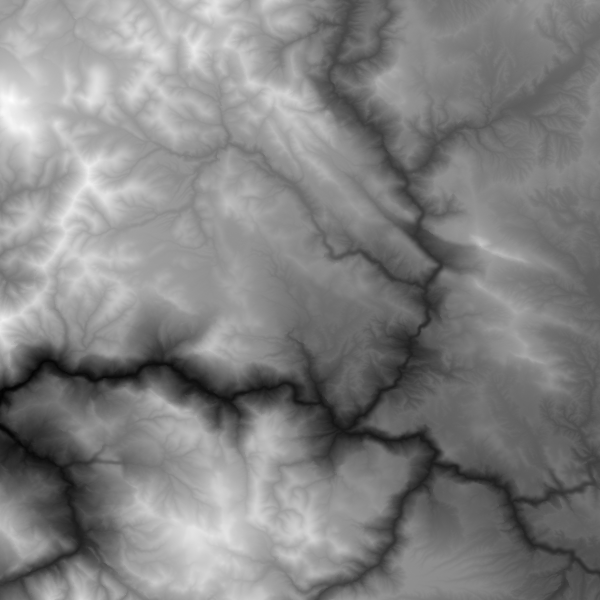
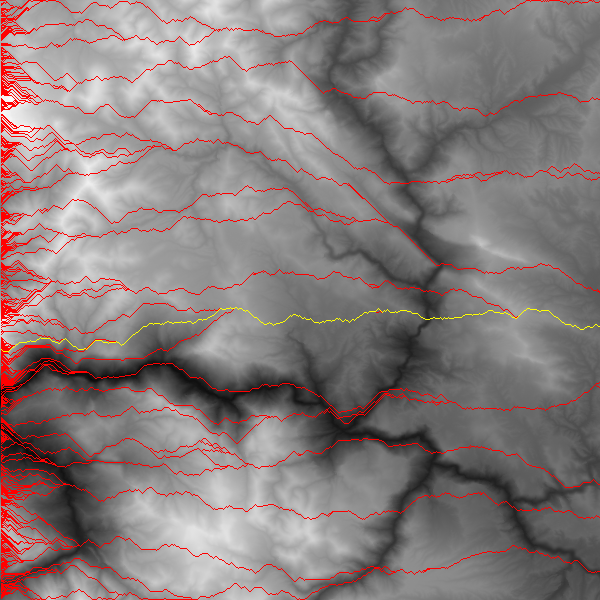
add path drawing logic, including advanced mode all path and ideal path drawing

diff --git a/pathfinder.py b/pathfinder.py
@@ -1,32 +1,96 @@
 import PIL
 from PIL import Image
+from random import randint
 
 def assign_color_value(elevation):
+    """This math is dirty and confined to this assignment, wouldn't work elsewhere"""
     assigned_color = (elevation // 10) - 310
     return assigned_color
 
 with open('elevation_small.txt') as file:
-    llist = [[int(x) for x in line.split()] for line in file]
-
-max_elevation = [max(max(num) for num in llist)].pop()
-min_elevation = [min(min(num) for num in llist)].pop()
+    llist = [[int(num) for num in line.split()] for line in file]
 
 y = 0
 x = 0
-map = Image.new('RGBA', (600, 600))
+
+def choose_closest_elevation(x, y):
+    while True:  
+        try:
+            top = llist[y - 1][x + 1]
+        except IndexError:
+            top = 0
+        try:
+            middle = llist[y][x + 1]
+        except IndexError:
+            middle = 0
+        try:
+            bottom = llist[y + 1][x + 1]
+        except IndexError:
+            bottom = 0
+        output = []
+        closest = min(top, middle, bottom, key=lambda delta:abs(delta - llist[y][x]))
+        if closest == middle:
+            output = [1, 0, abs(llist[y][x]-closest)]
+            return output
+
+        elif closest == top and closest == bottom:
+            coinflip = randint(0, 1)
+            if coinflip == 0:
+                output = [1, -1, abs(llist[y][x]-closest)]
+                return output
+            else:
+                output = [1, 1, abs(llist[y][x]-closest)]
+                return output
+
+        elif closest == bottom:
+            output = [1, 1, abs(llist[y][x]-closest)]
+            return output
+
+        elif closest == top:
+            output = [1, -1, abs(llist[y][x]-closest)]
+            return output
+
+emap = Image.new('RGBA', (600, 600))
 
 while y < 600:
+    """prints map"""
     while x < 600:
-        map.putpixel((x, y), (assign_color_value(llist[y][x]), assign_color_value(llist[y][x]), assign_color_value(llist[y][x])))
+        """prints each line of map"""
+        emap.putpixel((x, y), (assign_color_value(llist[y][x]), assign_color_value(llist[y][x]), assign_color_value(llist[y][x])))
         x += 1
 
     y += 1
     x = 0
-map.save('map.png')
-    
 
+y = 0
+origin = 0
+elevation_change_total = 0
+prev_total = 99999
+shortest_origin = 0
+emap.putpixel((x, y), (255, 0, 0))
 
+while origin < 600:
+    """prints all the paths"""
+    while x < 599:
+        """prints individual paths and chooses route"""
+        output = choose_closest_elevation(x, y)
+        x += output[0]
+        y += output[1]
+        elevation_change_total += output[2]
+        emap.putpixel((x, y), (255, 0, 0))
+    if elevation_change_total < prev_total:
+        prev_total = elevation_change_total
+        shortest_origin = origin
+    elevation_change_total = 0
+    origin += 1
+    y = origin
+    x = 0
 
+y = shortest_origin
+while x < 599:
+    output = choose_closest_elevation(x, y)
+    x += output[0]
+    y += output[1]
+    emap.putpixel((x, y), (255, 255, 0))
 
-
-
+emap.save('map.png')
